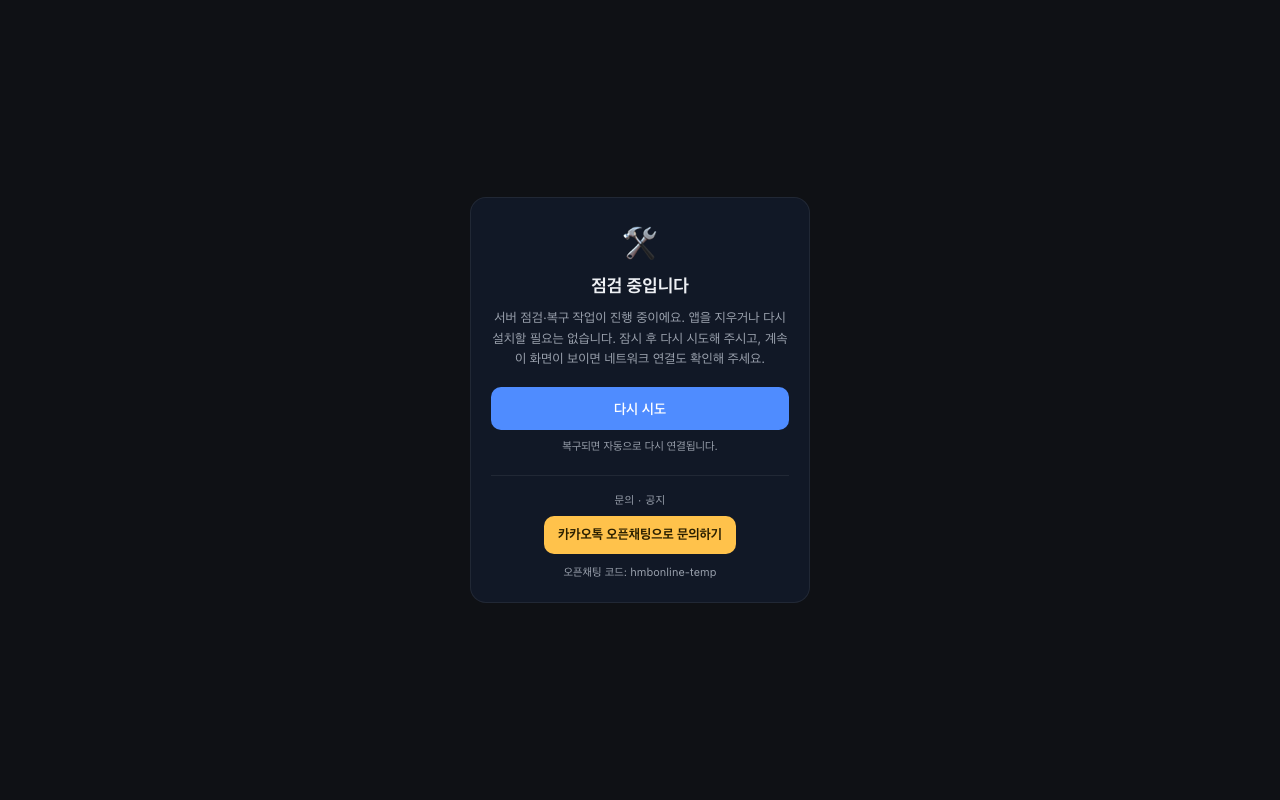
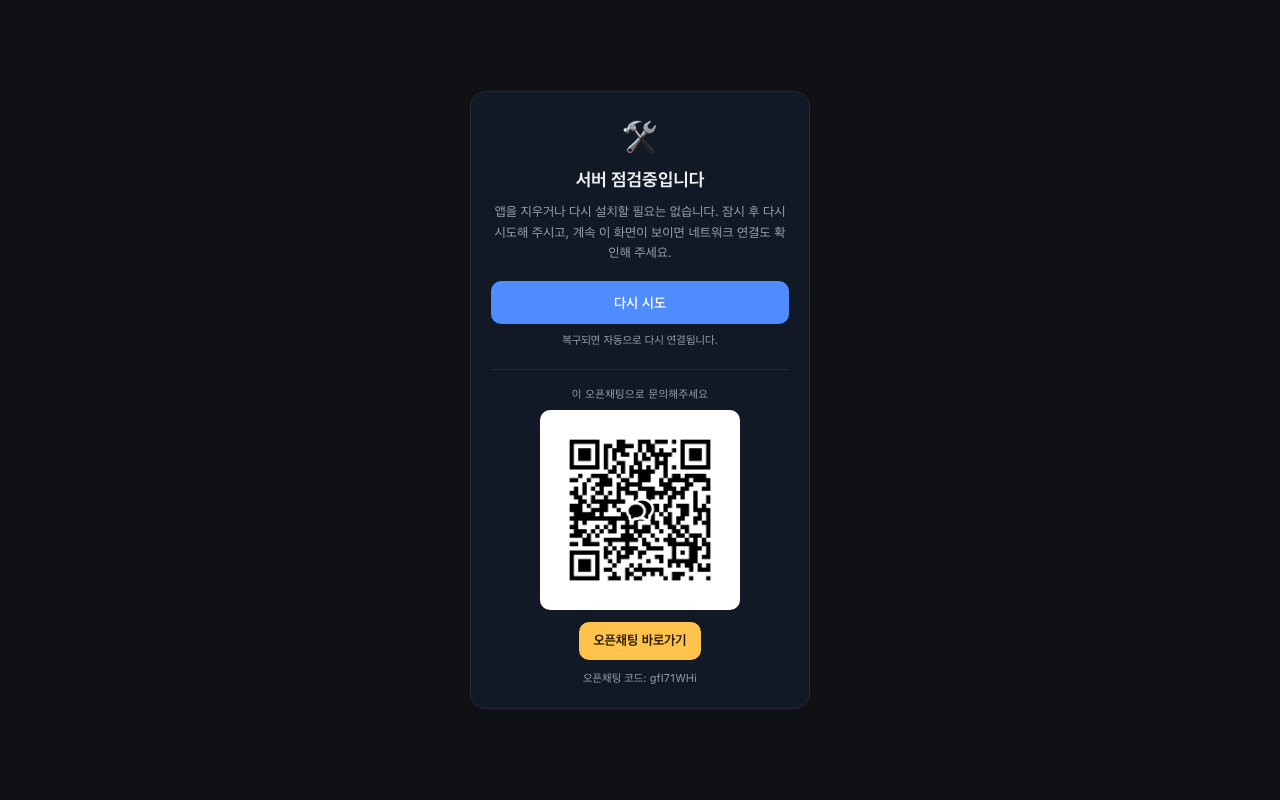
[Spider] feat(web): 점검 화면에 카톡 오픈채팅 QR + 실코드 (#477)
hero 지시: "서버 점검중입니다. 이 오픈채팅으로 문의해달라고 해줘" + QR 이미지 제공.

- placeholder(`hmbonline-temp`) → **실코드 `gfI71WHi`**. 받은 QR 을 디코드해
  `https://open.kakao.com/o/gfI71WHi` 임을 확인하고 상수와 일치시켰다(이미지와 링크가
  서로 다른 방을 가리키는 것이 이 기능의 가장 그럴듯한 사고다).
- QR 은 **웹 오리진 정적 에셋**(`public/support/`). `/api/` 뒤에 두면 백엔드가 죽은
  바로 그 순간 QR 만 깨져 PC 유저의 유일한 연락 수단이 사라진다.
- 문구: 제목 `서버 점검중입니다` · 연락 라벨 `이 오픈채팅으로 문의해주세요`.
  본문 첫 문장은 제목과 중복이라 걷어냈다.
- QR 을 200px + 흰 패드로 — 데스크탑 모니터를 폰 카메라로 찍는 자리라 모듈당 픽셀이 필요하다.

계약 3건 신설(전부 변이로 사망 확인 — `/api/` 로 옮기면 unit 2 + e2e 1 이 죽는다):
- 화면이 QR 상수를 그대로 렌더 + 경로가 `/api/` 가 아님
- `public/` 에 그 파일이 실제로 있다(이름이 갈라지면 배포 뒤에야 보인다)
- e2e: **API 를 전부 끊은 상태에서** `naturalWidth > 0` (toBeVisible 은 깨진 이미지도 통과)

게이트(콜드): apps/web 유닛 2418 passed / 8 skipped · e2e p477 8 passed ·
캡처 2 passed · `npm run build` ✅. 실화면 캡처 재생성(390·desktop).

Changed region(s): [[0.375, 0.2188, 0.625, 0.875], [0.4688, 0.1562, 0.5312, 0.1875]]

diff --git a/apps/web/src/common/support-contact.ts b/apps/web/src/common/support-contact.ts
@@ -1,13 +1,22 @@
 /**
  * 유저 문의 연락처 — **교체 지점은 이 파일 한 곳이다** (#477).
  *
- * ┌─ 오픈채팅 코드 교체 절차 ────────────────────────────────────────────────────────────┐
- * │ 1. 카카오톡에서 오픈채팅방을 만들고 링크를 복사한다(`https://open.kakao.com/o/XXXXXXXX`). │
- * │ 2. 아래 `KAKAO_OPEN_CHAT_CODE` 의 값을 그 `XXXXXXXX` 로 바꾼다. **다른 곳은 없다.**      │
- * │ 3. web 재배포: `bash infra/deploy-pages.sh <백엔드URL>`                                │
+ * ┌─ 오픈채팅방 교체 절차 ────────────────────────────────────────────────────────────────┐
+ * │ 1. 카카오톡에서 방을 만들고 ①링크(`https://open.kakao.com/o/XXXXXXXX`)와 ②QR 이미지를    │
+ * │    받는다(카톡 방 설정 → 공유).                                                        │
+ * │ 2. 아래 `KAKAO_OPEN_CHAT_CODE` 를 그 `XXXXXXXX` 로 바꾼다.                              │
+ * │ 3. QR 이미지를 `apps/web/public/support/kakao-openchat-qr.jpg` 에 **덮어쓴다**           │
+ * │    (파일명 그대로 — 경로는 아래 `kakaoOpenChatQrSrc` 하나만 안다).                       │
+ * │ 4. web 재배포: `bash infra/deploy-pages.sh <백엔드URL>`                                │
  * └──────────────────────────────────────────────────────────────────────────────────────┘
  *
- * ⚠ 지금 값은 **임시 placeholder** 다(방이 아직 없다). hero 가 개설한 뒤 위 절차로 교체한다.
+ * ⚠ **2번과 3번은 한 쌍이다.** 코드만 바꾸고 QR 을 그대로 두면 링크는 새 방으로 가는데 QR 을
+ * 찍은 사람은 죽은 방으로 간다(그 반대도 같다). 둘이 같은 방을 가리키는지는 사람이 봐야 하는
+ * 마지막 한 칸이다 — **바꾼 뒤 폰 카메라로 그 이미지를 직접 찍어** 아래 코드의 방으로 들어가는지
+ * 확인해라(자동 검증은 없다. QR 디코더를 이 리포의 의존성으로 들이지 않았다).
+ *
+ * (2026-08-09 출하 시점 실측: 이 이미지는 `https://open.kakao.com/o/gfI71WHi` 로 디코드된다.
+ *  = 아래 상수와 일치. 방을 바꾸면 이 줄도 같이 갱신해라.)
  *
  * ⚠ **다른 파일에 오픈채팅 URL 을 적지 마라.** 화면·안내문이 각자 URL 을 들면 교체 때 하나가
  * 남아 유저를 죽은 링크로 보낸다. 계약(`MaintenanceScreen.test.ts`)이 `src/**` 를 스캔해
@@ -15,11 +24,19 @@
  */
 
 /** 오픈채팅방 코드(링크의 `/o/` 뒤). **여기 한 줄만 바꾸면 된다.** */
-const KAKAO_OPEN_CHAT_CODE = "hmbonline-temp";
+const KAKAO_OPEN_CHAT_CODE = "gfI71WHi";
 
 export const SUPPORT_CONTACT = {
   /** 방 코드 — 링크를 못 여는 환경(PC·카톡 미설치)에서 글자로 보여 준다. */
   kakaoOpenChatCode: KAKAO_OPEN_CHAT_CODE,
   /** 실제 링크. 코드만 갈아 끼우므로 호출부가 문자열을 조립할 일이 없다. */
   kakaoOpenChatUrl: `https://open.kakao.com/o/${KAKAO_OPEN_CHAT_CODE}`,
+  /**
+   * QR 이미지 — **웹 오리진 정적 에셋이다**(`apps/web/public/`).
+   *
+   * ⚠ 백엔드를 거치는 경로(`/api/...`)에 두면 안 된다. 이 화면이 뜨는 상황이 곧 **백엔드가
+   * 죽은 상황**이라, 그때 QR 만 깨져서 유일한 연락 수단이 사라진다. web 은 CF Pages 정적이라
+   * 백엔드와 무관하게 살아 있다.
+   */
+  kakaoOpenChatQrSrc: "/support/kakao-openchat-qr.jpg",
 } as const;

diff --git a/apps/web/src/common/MaintenanceScreen.test.ts b/apps/web/src/common/MaintenanceScreen.test.ts
@@ -31,6 +31,21 @@ describe("MaintenanceScreen", () => {
     );
   });
 
+  /**
+   * QR 은 **PC 로 보는 유저의 유일한 연락 수단**이다(폰이 아니면 링크를 눌러도 카톡이 안 열린다).
+   * 그리고 이 화면이 뜨는 상황이 곧 백엔드가 죽은 상황이라, 그 이미지가 백엔드 경로에 있으면
+   * 하필 필요한 순간에 깨진다 — 그래서 웹 오리진 정적 에셋임을 여기서 못 박는다.
+   */
+  it("QR 이미지를 상수 그대로 렌더한다 — 백엔드를 타지 않는 경로여야 한다", () => {
+    render(h(MaintenanceScreen, { onRetry: () => {}, retrying: false }));
+
+    const qr = screen.getByTestId("maintenance-contact-qr") as HTMLImageElement;
+    expect(qr.getAttribute("src")).toBe(SUPPORT_CONTACT.kakaoOpenChatQrSrc);
+    expect(SUPPORT_CONTACT.kakaoOpenChatQrSrc.startsWith("/api/")).toBe(false);
+    // 이미지를 못 그리는 환경(로딩 실패·스크린리더)에서도 무엇인지 알아야 한다.
+    expect(qr.getAttribute("alt")).toBeTruthy();
+  });
+
   it("[다시 시도] 가 복구 재시도를 호출한다", () => {
     const onRetry = vi.fn();
     render(h(MaintenanceScreen, { onRetry, retrying: false }));
@@ -80,6 +95,22 @@ describe("연락처 교체 지점", () => {
       .filter((p) => /open\.kakao\.com/.test(readFileSync(p, "utf8")));
 
     expect(hits.map((p) => p.slice(srcRoot.length))).toEqual(["common/support-contact.ts"]);
+  });
+
+  /**
+   * 교체 지점이 **둘**(코드 + QR 이미지)이라는 것이 이 기능의 실제 위험이다. 코드만 바꾸고 QR 을
+   * 두면 링크는 새 방인데 QR 을 찍은 사람은 죽은 방으로 간다. 두 값이 **같은 방**인지는 기계가
+   * 못 본다(QR 디코더를 의존성으로 들이지 않았다) — 대신 그 앞 단계, **파일이 실제로 있는가**
+   * 를 여기서 막는다. 이름을 바꾸거나 지우면 화면에 깨진 이미지가 나가는데, 그건 배포 뒤에야
+   * 보인다(alt 텍스트만 남아 "연락처가 없는 점검 화면"이 된다).
+   */
+  it("QR 이미지 파일이 public 에 실제로 있다 — 경로 상수와 파일이 갈라지지 않는다", () => {
+    const publicRoot = resolve(webSrcRoot(), "..", "public");
+    const asset = join(publicRoot, SUPPORT_CONTACT.kakaoOpenChatQrSrc.replace(/^\//, ""));
+
+    expect(existsSync(asset), `QR 에셋 없음: ${asset}`).toBe(true);
+    // 빈 파일·플레이스홀더가 아니라는 최소 확인(QR 은 수십 KB 다).
+    expect(statSync(asset).size).toBeGreaterThan(2000);
   });
 
   it("상수만 바꾸면 링크가 따라온다 — URL 은 코드에서 조립되지 않는다", () => {

diff --git a/apps/web/src/common/MaintenanceScreen.tsx b/apps/web/src/common/MaintenanceScreen.tsx
@@ -23,13 +23,13 @@ export function MaintenanceScreen({
         <div className={styles.icon} aria-hidden="true">
           🛠
         </div>
-        <h1 className={styles.title}>점검 중입니다</h1>
+        <h1 className={styles.title}>서버 점검중입니다</h1>
         {/* ⚠ 마지막 문장은 장식이 아니다 — 우리는 "백엔드가 죽었다"와 "유저 wifi 가 끊겼다"를
             구분하지 못한다(구분 수단인 navigator.onLine 은 신뢰도가 낮다). 구분 못 하는 것을
             단정적으로 안내하면 오프라인 유저에게 거짓말이 된다. */}
         <p className={styles.text}>
-          서버 점검·복구 작업이 진행 중이에요. 앱을 지우거나 다시 설치할 필요는 없습니다.
-          잠시 후 다시 시도해 주시고, 계속 이 화면이 보이면 네트워크 연결도 확인해 주세요.
+          앱을 지우거나 다시 설치할 필요는 없습니다. 잠시 후 다시 시도해 주시고,
+          계속 이 화면이 보이면 네트워크 연결도 확인해 주세요.
         </p>
 
         <button
@@ -43,8 +43,19 @@ export function MaintenanceScreen({
         </button>
         <p className={styles.hint}>복구되면 자동으로 다시 연결됩니다.</p>
 
+        {/* 연락 수단을 **두 갈래**로 준다 — 이 화면은 폰에서도 PC 에서도 뜬다.
+            폰에서 보면 링크를 바로 누르고, PC 에서 보면 옆에 있는 폰으로 QR 을 찍는다.
+            QR 은 웹 오리진 정적 에셋이라 백엔드가 죽은 이 상황에서도 뜬다(support-contact.ts). */}
         <div className={styles.contact}>
-          <p className={styles.contactLabel}>문의 · 공지</p>
+          <p className={styles.contactLabel}>이 오픈채팅으로 문의해주세요</p>
+          <img
+            className={styles.qr}
+            data-testid="maintenance-contact-qr"
+            src={SUPPORT_CONTACT.kakaoOpenChatQrSrc}
+            alt="카카오톡 오픈채팅 QR 코드"
+            width={200}
+            height={200}
+          />
           <a
             className={styles.contactLink}
             data-testid="maintenance-contact"
@@ -52,7 +63,7 @@ export function MaintenanceScreen({
             target="_blank"
             rel="noreferrer noopener"
           >
-            카카오톡 오픈채팅으로 문의하기
+            오픈채팅 바로가기
           </a>
           <p className={styles.contactCode} data-testid="maintenance-contact-code">
             오픈채팅 코드: {SUPPORT_CONTACT.kakaoOpenChatCode}

diff --git a/apps/web/e2e/p477-capture.capture.ts b/apps/web/e2e/p477-capture.capture.ts
@@ -24,9 +24,10 @@ async function killBackend(page: Page) {
  * 이미지 판독에 기대는 한 계속 재발한다. 이제 답은 DOM 이 준다.
  */
 const MUST_RENDER = [
-  "점검 중입니다",
+  "서버 점검중입니다",
   "다시 시도",
-  "카카오톡 오픈채팅으로 문의하기",
+  "이 오픈채팅으로 문의해주세요",
+  "오픈채팅 바로가기",
   "오픈채팅 코드",
 ] as const;
 
@@ -42,6 +43,13 @@ test("캡처: 점검 안내 화면 (모바일·데스크탑)", async ({ page }) 
     // 찍기 전에 "찍히는 내용"을 확정한다 — 캡처는 이 단언의 그림 버전일 뿐이다.
     const text = (await screen.innerText()).replace(/\s+/g, " ");
     for (const phrase of MUST_RENDER) expect(text, `[${label}] 누락: ${phrase}`).toContain(phrase);
+
+    // 캡처에 QR 이 **그림으로** 들어가야 한다 — 깨진 이미지는 텍스트 단언에 안 걸린다.
+    await expect
+      .poll(() =>
+        page.getByTestId("maintenance-contact-qr").evaluate((el) => (el as HTMLImageElement).naturalWidth),
+      )
+      .toBeGreaterThan(0);
 
     await page.screenshot({ path: `${SHOTS}p477-maintenance-${label}.png`, fullPage: false });
   }

diff --git a/apps/web/e2e/p477-maintenance.spec.ts b/apps/web/e2e/p477-maintenance.spec.ts
@@ -46,6 +46,15 @@ test("터널 사망(응답 없음) → 점검 안내 + 연락처가 뜬다", asy
     /open\.kakao\.com\//,
   );
   await expect(page.getByTestId("maintenance-retry")).toBeVisible();
+
+  // ⚠ QR 은 **백엔드가 죽어 있는 지금** 떠야 의미가 있다(PC 유저의 유일한 연락 수단).
+  // `toBeVisible()` 은 깨진 이미지도 통과하므로 실제로 픽셀이 왔는지(`naturalWidth`)를 본다 —
+  // 경로를 `/api/...` 로 옮기는 변이가 여기서 죽는다(이 테스트의 목은 /api/ 를 전부 끊는다).
+  const qr = page.getByTestId("maintenance-contact-qr");
+  await expect(qr).toBeVisible();
+  await expect
+    .poll(() => qr.evaluate((el) => (el as HTMLImageElement).naturalWidth))
+    .toBeGreaterThan(0);
 });
 
 test("백엔드만 사망(502) → 같은 점검 안내가 뜬다", async ({ page }) => {

diff --git a/apps/web/src/common/MaintenanceScreen.module.css b/apps/web/src/common/MaintenanceScreen.module.css
@@ -77,6 +77,19 @@
   color: var(--text-muted);
 }
 
+/* QR 은 카메라가 읽어야 하므로 **흰 여백째** 보여 준다 — 어두운 카드 위에 그대로 얹으면
+   조용한 배경(var(--surface))과 코드 대비가 떨어지는 스캐너가 있다. 그래서 흰 패드를 깐다. */
+.qr {
+  display: block;
+  width: 200px;
+  height: 200px;
+  margin: 0 auto 12px;
+  padding: 10px;
+  border-radius: 10px;
+  background: #fff;
+  object-fit: contain;
+}
+
 .contactLink {
   display: inline-block;
   padding: 9px 14px;
